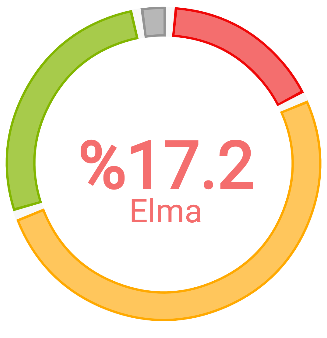
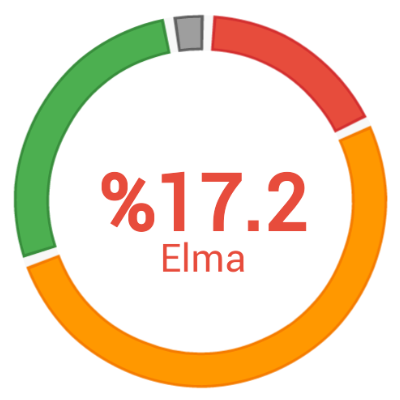
26.03.2015 Yeni Renkler - New Colors ( Material Design Colors )
RED, PINK, PURPLE, DARK PURPLE, INDIGO, BLUE, CYAN, TEAL, GREEN, LIGHT GREEN, LIME, YELLOW, AMBER, ORANGE, DEEP ORANGE, BROWN, GREY, BLUE GREY,  BLACK AND WHITE...

diff --git a/app/src/main/java/SimpleRingChartTR/ChartColors.java b/app/src/main/java/SimpleRingChartTR/ChartColors.java
@@ -7,32 +7,122 @@ import android.graphics.Color;
  */
 public class ChartColors {
 
-    public static final int RED = Color.parseColor( "#f46e6e" );
-    public static final int BLUE = Color.parseColor("#5bbfe3");
-    public static final int GREEN = Color.parseColor("#a7cb4b");
-    public static final int GREY = Color.parseColor("#b7b7b7");
-    public static final int ORANGE = Color.parseColor("#ffc65c");
+   //RED
+    public  static final int RED      = Color.parseColor("#E57373");
+    private static final int DARK_RED = Color.parseColor("#D32F2F");
 
-    private static final int DARK_RED = Color.parseColor("#ef0707");
-    private static final int DARK_BLUE = Color.parseColor("#00a1d5");
-    private static final int DARK_GREEN = Color.parseColor("#82b600");
-    private static final int DARK_GREY = Color.parseColor("#939393");
-    private static final int DARK_ORANGE = Color.parseColor("#ffa900");
+   //PINK
+    public  static final int PINK      = Color.parseColor("#e91e63");
+    private static final int DARK_PINK = Color.parseColor("#c2185b");
 
-    public static int getDarkColor( int color ){
+   //PURPLE
+    public  static final int PURPLE      = Color.parseColor("#9c27b0");
+    private static final int DARK_PURPLE = Color.parseColor("#7b1fa2");
+
+   //DARK PURPLE
+    public  static final int D_PURPLE      = Color.parseColor("#673ab7");
+    private static final int DARK_D_PURPLE = Color.parseColor("#512da8");
+
+   //INDIGO
+    public  static final int INDIGO      = Color.parseColor("#3f51b5");
+    private static final int DARK_INDIGO = Color.parseColor("#303f9f");
+
+   //BLUE
+    public  static final int BLUE      = Color.parseColor("#2196f3");
+    private static final int DARK_BLUE = Color.parseColor("#1976d2");
+
+   //CYAN
+    public  static final int CYAN      = Color.parseColor("#00bcd4");
+    private static final int DARK_CYAN = Color.parseColor("#0097a7");
+
+   //TEAL
+    public  static final int TEAL      = Color.parseColor("#009688");
+    private static final int DARK_TEAL = Color.parseColor("#00796b");
+
+   //GREEN
+    public  static final int GREEN      = Color.parseColor("#4caf50");
+    private static final int DARK_GREEN = Color.parseColor("#388e3c");
+
+   //LIGHT GREEN
+    public  static final int L_GREEN      = Color.parseColor("#8bc34a");
+    private static final int DARK_L_GREEN = Color.parseColor("#689f38");
+
+   //LIME
+    public  static final int LIME      = Color.parseColor("#cddc39");
+    private static final int DARK_LIME = Color.parseColor("#afb42b");
+
+   //YELLOW
+    public  static final int YELLOW      = Color.parseColor("#ffeb3b");
+    private static final int DARK_YELLOW = Color.parseColor("#fbc02d");
+
+   //AMBER
+    public  static final int AMBER      = Color.parseColor("#ffc107");
+    private static final int DARK_AMBER   = Color.parseColor("#ffa000");
+
+   //ORANGE
+    public  static final int ORANGE      = Color.parseColor("#ff9800");
+    private static final int DARK_ORANGE = Color.parseColor("#f57c00");
+
+   //DEEP ORANGE
+    public  static final int D_ORANGE      = Color.parseColor("#ff5722");
+    private static final int DARK_D_ORANGE = Color.parseColor("#e64a19");
+
+   //BROWN
+    public  static final int BROWN        = Color.parseColor("#795548");
+    private static final int DARK_BROWN   = Color.parseColor("#5d4037");
+
+   //GREY
+    public  static final int GREY      = Color.parseColor("#9e9e9e");
+    private static final int DARK_GREY = Color.parseColor("#616161");
+
+   //BLUE GREY
+    public  static final int BLUE_GREY        = Color.parseColor("#607d8b");
+    private static final int DARK_BLUE_GREY   = Color.parseColor("#455a64");
+
+  //BLACK AND WHITE
+    public static final int WHITE = Color.parseColor("#ffffff");
+    public static final int BLACK = Color.parseColor("#000000");
+
+    public static int getDarkColor(  int color ){
 
         if( color == RED ){
             return DARK_RED;
-        }else if( color == BLUE ){
+        }else if( color == PINK ){
+            return DARK_PINK;
+        }else if( color == PURPLE ){
+            return DARK_PURPLE;
+        }else if( color == D_PURPLE ){
+            return DARK_D_PURPLE;
+        }else if( color == INDIGO ){
+            return DARK_INDIGO;
+        }else if( color == BLUE){
             return DARK_BLUE;
-        }else if( color == GREEN ){
+        }else if ( color == CYAN ){
+            return DARK_CYAN;
+        }else if ( color == TEAL ){
+            return DARK_TEAL;
+        }else if ( color == GREEN ){
             return DARK_GREEN;
-        }else if( color == GREY ){
-            return DARK_GREY;
-        }else if( color == ORANGE ){
+        }else if ( color == L_GREEN ){
+            return DARK_L_GREEN;
+        }else if ( color == LIME ){
+            return DARK_LIME;
+        }else if ( color == YELLOW ){
+            return DARK_YELLOW;
+        }else if ( color == AMBER ){
+            return DARK_AMBER;
+        }else if ( color == ORANGE ){
             return DARK_ORANGE;
+        }else if ( color == D_ORANGE ){
+            return DARK_D_ORANGE;
+        }else if ( color == BROWN ){
+            return DARK_BROWN;
+        }else if ( color == GREY ){
+            return DARK_GREY;
+        }else if ( color == BLUE_GREY ){
+            return DARK_BLUE_GREY;
         }else{
-            return GREY;
+            return WHITE;
         }
     }
 

diff --git a/app/src/main/java/com/trozant/android_grafik_comp/MainActivity.java b/app/src/main/java/com/trozant/android_grafik_comp/MainActivity.java
@@ -7,10 +7,9 @@ import android.view.View;
 import SimpleRingChartTR.ChartColors;
 import SimpleRingChartTR.RingChart;
 
-
 public class MainActivity extends Activity {
 
-    RingChart mRingChart;
+    private RingChart mRingChart;
 
     @Override
     protected void onCreate(Bundle savedInstanceState) {
@@ -25,6 +24,7 @@ public class MainActivity extends Activity {
         mRingChart.addChartValue("Armut", 80, ChartColors.GREEN);
         mRingChart.addChartValue("Kiraz", 10, ChartColors.GREY);
 
+
         //Coklu Deger Ekleme- Add Values
       //  List<RingChartValue> values = new ArrayList<RingChartValue>();
       //  values.add( new RingChartValue("Elma", 50, ChartColors.RED));
@@ -38,9 +38,14 @@ public class MainActivity extends Activity {
         //butun degerleri sil.
       //  mRingChart.deleteAllValue();
 
+
+
+        /**
+         *@params id(int), name(String), value(int), color(int)
+         */
         //id ile deger guncelleme
-      //  mRingChart.updateChartValue( 0,"Elma", 50, ChartColors.RED );
-       // mRingChart.updateChartValue( 0,new RingChartValue("Şeftali", 80, ChartColors.GREEN) );
+       // mRingChart.updateChartValue( 0,"Elma", 50, ChartColors.RED );
+       //mRingChart.updateChartValue( 0,new RingChartValue("Şeftali", 80, ChartColors.INDIGO) );
 
         //Deger Secme
         //mRingChart.selectValue(2);
@@ -52,11 +57,11 @@ public class MainActivity extends Activity {
     }
 
     public void add(View v){
-        mRingChart.addChartValue("Yeşil Elma", 70, ChartColors.GREEN);
+        mRingChart.addChartValue("Yeşil Elma", 70, ChartColors.PURPLE);
     }
 
     public void delete(View v){
-        mRingChart.deleteChartValue( 0 );
+        mRingChart.deleteChartValue(0);
     }
 
 

diff --git a/app/src/main/java/SimpleRingChartTR/RingChart.java b/app/src/main/java/SimpleRingChartTR/RingChart.java
@@ -82,9 +82,9 @@ public class RingChart extends View {
         // Calculate(Width,    Height,    Thickness, size);
         init();
 
-        //addChartValue("Elma", 50, ChartColors.RED);
-        //addChartValue("Şeftali", 150, ChartColors.ORANGE);
-        //addChartValue("Armut", 80, ChartColors.GREEN);
+      //  addChartValue("Elma", 50, ChartColors.BLUE);
+      //  addChartValue("Şeftali", 150, ChartColors.ORANGE);
+       // addChartValue("Armut", 80, ChartColors.GREEN);
        // addChartValue("Kiraz", 10, ChartColors.GREY);
 
         //Toplam deger.
